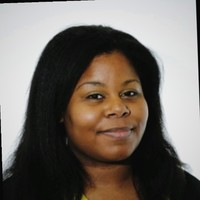
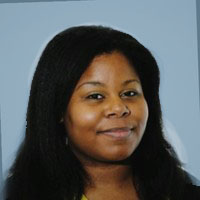
added some skills and changed the picture

diff --git a/index.html b/index.html
@@ -38,6 +38,7 @@
 <br>
 <article><h2 class="green-text">SKILLS</h2></article>
 <hr color="#2ebcae">
+<br>
 <h3 class="rcorners">SEO</h3>
 <br>
 <h3 class="rcorners">PROJECT MANAGEMENT</h3>
@@ -77,24 +78,35 @@
     <header class="header">
       <h1 class="name">Anni Winnersjö</h1>
       <strong class="position"><u>Webmaster</u> at Stockholms läns sjukvårdsområde</strong>
-      <br><p class="summary">Här kan man skriva en kort summering av sin arbetslivserfarenhet. Denna text kommer att synas under titeln.
+      <br><p class="summary">My assignment as a webmaster at Stockholm County Medical Area (SLSO) includes running and leading the administration and development work and ensuring that the organization's goals with the approximately 50 websites are met. The assignment also includes managing, managing licenses and domains, web analytics and strategy, budget responsibility, project management and more.
       </p>
     </header>
     <main class="main">
       <article><h2 class="green-text">WORK EXPERIENCE</h2></article>
-      <p>Airstate Sulotion <i class="fas fa-external-link-alt" style="color: #2ebcae"></i></p>
-      <p><i><small>09/2014-09/2017<time datetime="2008-02-14 20:00"></time>.</i></small></p>
+      <p><strong>Stockholms läns sjukvårdsområde (SLSO) </strong><i class="fas fa-external-link-alt" style="color: #2ebcae"></i></p>
+      <p><i><small>02/2016-present<time datetime="2008-02-14 20:00"></time></i></small></p>
       <br>
-      <p><ul class="bullet"><li>Sucessfully managed $2-3 milions budget projects and sucessfully achived the project scheduled goals.</li>
-        <li>Sucessfully managed $2-3 milions budget projects and sucessfully achived the project scheduled goals.</li></ul></p>
-      <article><h2 class="green-text">organizations</h2></article>
-      <p><ul class="bullet"><li>Sucessfully managed $2-3 milions budget projects and sucessfully achived the project scheduled goals.</li>
-        <li>Sucessfully managed $2-3 milions budget projects and sucessfully achived the project scheduled goals.</li></ul></p>
+      <p><ul class="bullet"><li class="i-margin">Sucessfully managing $2-3 milions budget projects and sucessfully achived the project scheduled goals.</li>
+        <li>Implemented all the necessary changes to meet the demands regarding the new law for web accessibility on governent web sites.</li></ul></p>
+      <br>
+      <p><strong>Sveriges Kommuner och Landsting (SKL) </strong><i class="fas fa-external-link-alt" style="color: #2ebcae"></i></p>
+      <p><i><small>02/2016-present<time datetime="2008-02-14 20:00"></time></i></small></p>
+      <br>
+      <p><ul class="bullet"><li class="i-margin">Sucessfully managing $2-3 milions budget projects and sucessfully achived the project scheduled goals.</li>
+        <li>Implemented all the necessary changes to meet the demands regarding the new law for web accessibility on governent web sites.</li></ul></p>
       <article><h2 class="green-text">Education</h2></article>
-      <p><ul class="bullet"><li>Sucessfully managed $2-3 milions budget projects and sucessfully achived the project scheduled goals.</li>
+      <p><ul class="bullet"><li class="i-margin">Sucessfully managed $2-3 milions budget projects and sucessfully achived the project scheduled goals.</li>
         <li>Sucessfully managed $2-3 milions budget projects and sucessfully achived the project scheduled goals.</li></ul></p>
-      <article><h2 class="green-text">Honours and awards</h2></article>
-      <p><ul class="bullet"><li>Sucessfully managed $2-3 milions budget projects and sucessfully achived the project scheduled goals.</li>
+      <article><h2 class="green-text">Licenses & Certifications</h2></article>
+      <p><strong>Google Analytics Individual Qualification </strong><i class="fas fa-external-link-alt" style="color: #2ebcae"></i></p>
+      <p><i><small>Issued february 2018 expires february 2019<time datetime="2008-02-14 20:00"></time></i></small></p>
+      <br>
+      <p><ul class="bullet"><li class="i-margin">Sucessfully managed $2-3 milions budget projects and sucessfully achived the project scheduled goals.</li>
+        <li>Sucessfully managed $2-3 milions budget projects and sucessfully achived the project scheduled goals.</li></ul></p>
+      <article><h2 class="green-text">Volunteer Experience</h2></article>
+      <p><strong>Watoto Stockholm </strong><i class="fas fa-external-link-alt" style="color: #2ebcae"></i></p>
+      <br>
+      <p><ul class="bullet"><li class="i-margin">Leader and one of the founders of Watoto Stockholm.</li>
         <li>Sucessfully managed $2-3 milions budget projects and sucessfully achived the project scheduled goals.</li></ul></p>
     </main>
   </div>

diff --git a/style.css b/style.css
@@ -47,12 +47,16 @@
 }
   .name {}
   .position {margin-top: 10px;}
-  .summary {margin-top: 10px;}
+  .summary {margin-top: 10px;
+  margin-bottom: 5px;}
   
   .main 
-  {padding: 2px;
+  {margin-top: 5px;
+    padding: 20px;
     padding-right: 20px;}
-  .green-text {color: #2ebcae;}
+  .green-text {color: #2ebcae;
+  padding-bottom: 5px;
+padding-top: 5px;}
   .rcorners {
     border-radius: 20px;
     color: white;
@@ -68,7 +72,9 @@
     list-style-position: outside;
     list-style-image: none;
     padding-left: 20px; 
+    padding: 5px;
    }
+   .i-margin{padding-bottom: 5px;}
 
   .dot1{   
     height: 25px;
